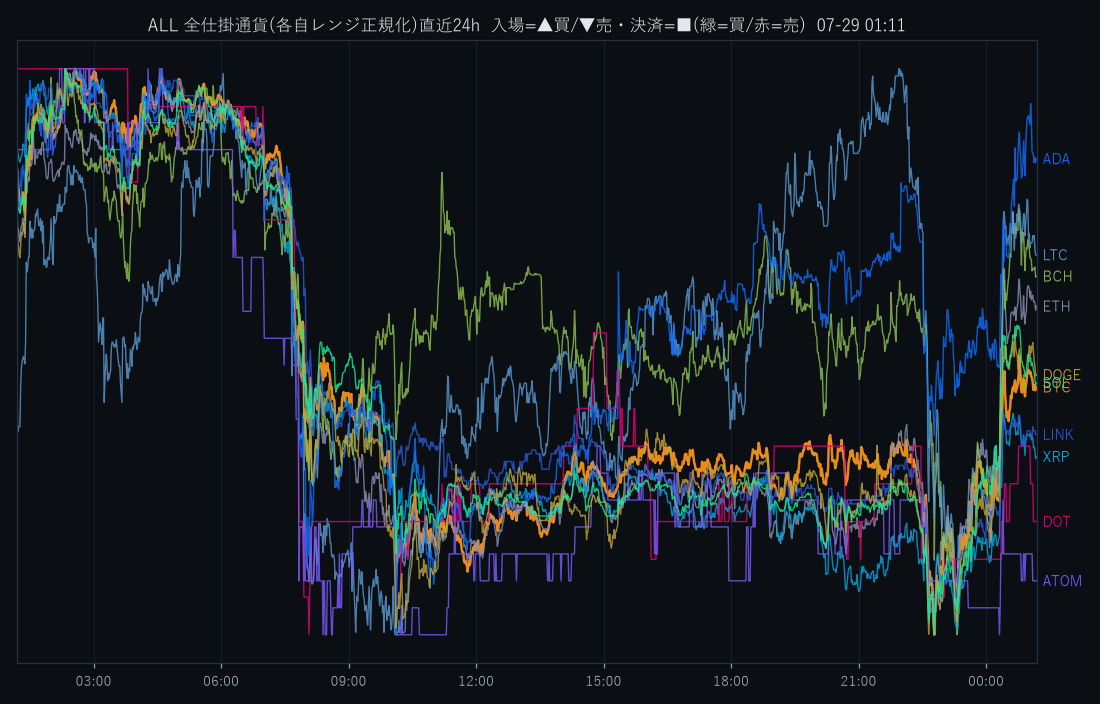
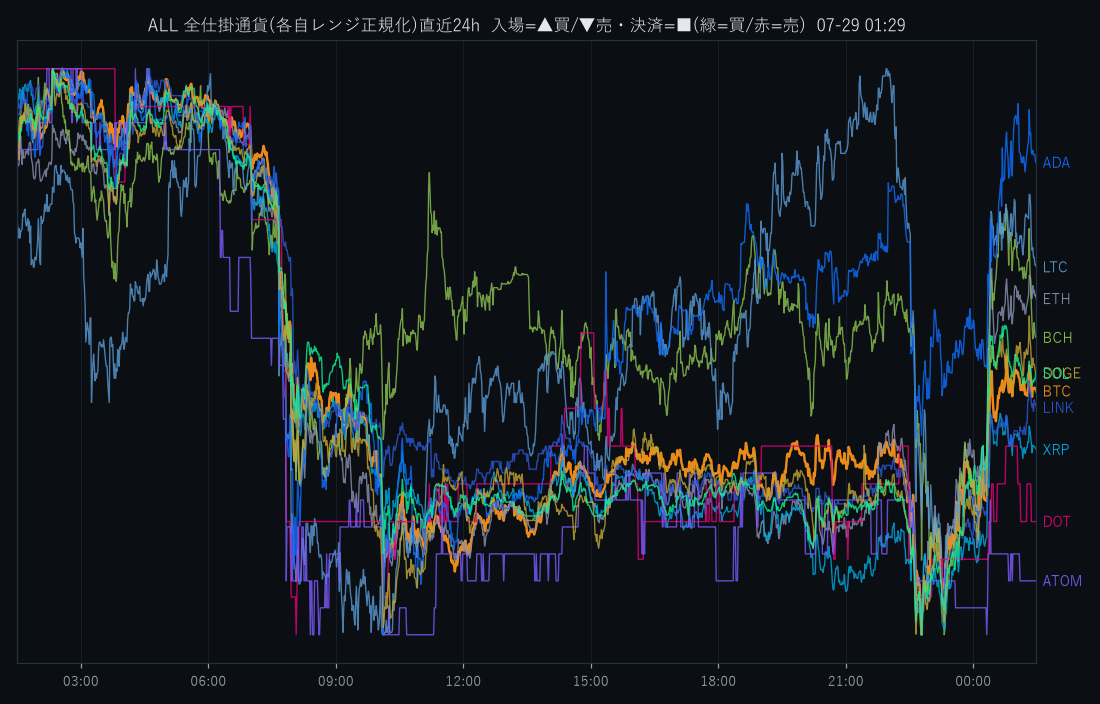
Coin100S 運用状況更新 07-29 01:29

diff --git a/coin100s-795hc4jfv8/index.html b/coin100s-795hc4jfv8/index.html
@@ -25,5 +25,5 @@ a{color:#60a5fa;text-decoration:none} a:hover{text-decoration:underline}
 <p><a href="status.html"><b>▶ 運用状況の詳細(チャート・本日の取引・レジーム)</b></a></p>
 <h2>日報一覧</h2>
 <table><tr><th>取引日</th><th>実現損益</th><th>総括</th></tr><tr><td><a href='reports/20260727_Coin100S日報.html'>2026-07-27</a></td><td class="pos">+0円</td><td class='meta'>実取引はノートレード（新規・決済なし）。警告/孤児/エラーなし＝健全。</td></tr><tr><td><a href='reports/20260726_Coin100S日報.html'>2026-07-26</a></td><td class="pos">+0円</td><td class='meta'>実取引はノートレード（新規・決済なし）。警告/孤児/エラーなし＝健全。</td></tr><tr><td><a href='reports/20260725_Coin100S日報.html'>2026-07-25</a></td><td class="pos">+0円</td><td class='meta'>実取引: 新規0件/決済17件、実現損益 +0円。警告/孤児/エラーなし＝健全。</td></tr><tr><td><a href='reports/20260724_Coin100S日報.html'>2026-07-24</a></td><td class="pos">+0円</td><td class='meta'>実取引: 新規6件/決済17件、実現損益 +0円。シグナル却下3件（最多: BW10M3_5M／トレンド方向ゲート(N分傾き下と不一致=逆張り方向のfade禁止)）。⚠警告/エラー 12件（要確認）。</td></tr><tr><td><a href='reports/20260723_Coin100S日報.html'>2026-07-23</a></td><td class="pos">+0円</td><td class='meta'>実取引: 新規8件/決済3件、実現損益 +0円。警告/孤児/エラーなし＝健全。</td></tr><tr><td><a href='reports/20260722_Coin100S日報.html'>2026-07-22</a></td><td class="pos">+0円</td><td class='meta'>実取引: 新規10件/決済5件、実現損益 +0円。シグナル却下1件（最多: BW10M3_5M／トレンド方向ゲート(N分傾き下と不一致=逆張り方向のfade禁止)）。⚠警告/エラー 9件（要確認）。</td></tr><tr><td><a href='reports/20260721_Coin100S日報.html'>2026-07-21</a></td><td class="pos">+0円</td><td class='meta'>実取引: 新規4件/決済13件、実現損益 +0円。⚠警告/エラー 13件（要確認）。</td></tr><tr><td><a href='reports/20260720_Coin100S日報.html'>2026-07-20</a></td><td class="pos">+0円</td><td class='meta'>実取引: 新規8件/決済21件、実現損益 +0円。シグナル却下8件（最多: BW10M3_5M／トレンド方向ゲート(N分傾き上と不一致=逆張り方向のfade禁止)）。⚠警告/エラー 13件（要確認）。</td></tr><tr><td><a href='reports/20260719_Coin100S日報.html'>2026-07-19</a></td><td class="pos">+0円</td><td class='meta'>実取引: 新規10件/決済7件、実現損益 +0円。⚠警告/エラー 3件（要確認）。</td></tr><tr><td><a href='reports/20260718_Coin100S日報.html'>2026-07-18</a></td><td class="pos">+0円</td><td class='meta'>実取引: 新規9件/決済8件、実現損益 +0円。警告/孤児/エラーなし＝健全。</td></tr><tr><td><a href='reports/20260717_Coin100S日報.html'>2026-07-17</a></td><td class="pos">+0円</td><td class='meta'>実取引: 新規3件/決済2件、実現損益 +0円。シグナル却下1件（最多: BW10M3_5M／トレンド方向ゲート(N分傾き下と不一致=逆張り方向のfade禁止)）。⚠警告/エラー 2件（要確認）。</td></tr><tr><td><a href='reports/20260716_Coin100S日報.html'>2026-07-16</a></td><td class="pos">+0円</td><td class='meta'>実取引: 新規0件/決済5件、実現損益 +0円。⚠警告/エラー 7件（要確認）。</td></tr><tr><td><a href='reports/20260715_Coin100S日報.html'>2026-07-15</a></td><td class="pos">+0円</td><td class='meta'>実取引: 新規6件/決済5件、実現損益 +0円。シグナル却下6件（最多: BW10M3_5M／トレンド方向ゲート(N分傾き上と不一致=逆張り方向のfade禁止)）。⚠警告/エラー 7件（要確認）。</td></tr><tr><td><a href='reports/20260714_Coin100S日報.html'>2026-07-14</a></td><td class="pos">+0円</td><td class='meta'>実取引: 新規6件/決済18件、実現損益 +0円。シグナル却下5件（最多: BW10M3_5M／トレンド方向ゲート(N分傾き上と不一致=逆張り方向のfade禁止)）。⚠警告/エラー 9件（要確認）。</td></tr><tr><td><a href='reports/20260713_Coin100S日報.html'>2026-07-13</a></td><td class="pos">+0円</td><td class='meta'>実取引: 新規5件/決済8件、実現損益 +0円。シグナル却下1件（最多: BW10M3_5M／トレンド方向ゲート(N分傾き上と不一致=逆張り方向のfade禁止)）。警告/孤児/エラーなし＝健全。</td></tr><tr><td><a href='reports/20260712_Coin100S日報.html'>2026-07-12</a></td><td class="pos">+0円</td><td class='meta'>実取引: 新規14件/決済6件、実現損益 +0円。シグナル却下5件（最多: BW10M3_5M／トレンド方向ゲート(N分傾き下と不一致=逆張り方向のfade禁止)）。⚠警告/エラー 2件（要確認）。</td></tr><tr><td><a href='reports/20260711_Coin100S日報.html'>2026-07-11</a></td><td class="pos">+0円</td><td class='meta'>実取引: 新規7件/決済6件、実現損益 +0円。⚠警告/エラー 52件（要確認）。</td></tr><tr><td><a href='reports/20260710_Coin100S日報.html'>2026-07-10</a></td><td class="pos">+0円</td><td class='meta'>実取引: 新規7件/決済6件、実現損益 +0円。シグナル却下6件（最多: BW10M3_5M／トレンド方向ゲート(N分傾き上と不一致=逆張り方向のfade禁止)）。警告/孤児/エラーなし＝健全。</td></tr><tr><td><a href='reports/20260709_Coin100S日報.html'>2026-07-09</a></td><td class="pos">+0円</td><td class='meta'>実取引: 新規8件/決済3件、実現損益 +0円。シグナル却下5件（最多: SD120M_5M／トレンド方向ゲート(N分傾き上と不一致=逆張り方向のfade禁止)）。警告/孤児/エラーなし＝健全。</td></tr><tr><td><a href='reports/20260708_Coin100S日報.html'>2026-07-08</a></td><td class="pos">+0円</td><td class='meta'>実取引: 新規2件/決済4件、実現損益 +0円。シグナル却下4件（最多: SD120M_5M／トレンド方向ゲート(N分傾き下と不一致=逆張り方向のfade禁止)）。警告/孤児/エラーなし＝健全。</td></tr><tr><td><a href='reports/20260707_Coin100S日報.html'>2026-07-07</a></td><td class="pos">+0円</td><td class='meta'>実取引: 新規8件/決済6件、実現損益 +0円。シグナル却下4件（最多: SD120M_5M／トレンド方向ゲート(N分傾き上と不一致=逆張り方向のfade禁止)）。⚠警告/エラー 258件（要確認）。</td></tr><tr><td><a href='reports/20260706_Coin100S日報.html'>2026-07-06</a></td><td class="pos">+0円</td><td class='meta'>実取引: 新規9件/決済6件、実現損益 +0円。シグナル却下9件（最多: SD120M_5M／トレンド方向ゲート(N分傾き上と不一致=逆張り方向のfade禁止)）。⚠警告/エラー 150件（要確認）。</td></tr><tr><td><a href='reports/20260705_Coin100S日報.html'>2026-07-05</a></td><td class="pos">+0円</td><td class='meta'>実取引: 新規8件/決済3件、実現損益 +0円。⚠警告/エラー 2件（要確認）。</td></tr><tr><td><a href='reports/20260704_Coin100S日報.html'>2026-07-04</a></td><td class="pos">+0円</td><td class='meta'>実取引: 新規1件/決済2件、実現損益 +0円。⚠警告/エラー 2件（要確認）。</td></tr><tr><td><a href='reports/20260703_Coin100S日報.html'>2026-07-03</a></td><td class="pos">+0円</td><td class='meta'>実取引: 新規5件/決済4件、実現損益 +0円。⚠警告/エラー 15件（要確認）。</td></tr><tr><td><a href='reports/20260702_Coin100S日報.html'>2026-07-02</a></td><td class="pos">+0円</td><td class='meta'>実取引: 新規7件/決済5件、実現損益 +0円。シグナル却下17件（最多: SD120M_5M／トレンド方向ゲート(N分傾き上と不一致=逆張り方向のfade禁止)）。⚠警告/エラー 26件（要確認）。</td></tr><tr><td><a href='reports/20260701_Coin100S日報.html'>2026-07-01</a></td><td class="pos">+0円</td><td class='meta'>実取引: 新規14件/決済8件、実現損益 +0円。シグナル却下14件（最多: SD120M_5M／ボラ軸ゲート(SDN%&amp;gt;N%=高ボラ/荒れレンジ)）。⚠警告/エラー 2件（要確認）。</td></tr><tr><td><a href='reports/20260630_Coin100S日報.html'>2026-06-30</a></td><td class="pos">+0円</td><td class='meta'>実取引: 新規0件/決済1件、実現損益 +0円。シグナル却下29件（最多: 微5M／当日枠N）。警告/孤児/エラーなし＝健全。</td></tr></table>
-<hr><p class="meta">更新: 2026-07-29 01:23:05 / 自動生成: tools/web_publish.py(§580)</p>
+<hr><p class="meta">更新: 2026-07-29 01:29:14 / 自動生成: tools/web_publish.py(§580)</p>
 </body></html>

diff --git a/coin100s-795hc4jfv8/status.html b/coin100s-795hc4jfv8/status.html
@@ -14,7 +14,7 @@ a{color:#60a5fa;text-decoration:none} a:hover{text-decoration:underline}
 .meta{color:#94a3b8;font-size:13px}</style>
 <script>setTimeout(function(){location.replace(location.pathname+"?t="+Date.now());},300000);</script></head><body>
 <h1>Coin100S 運用状況</h1>
-<p class="meta">スナップショット: 2026-07-25 08:26:13 / ページ生成: 2026-07-29 01:23:05(自動リロード・最新化) / <a href="index.html">目次へ</a></p>
+<p class="meta">スナップショット: 2026-07-25 08:26:13 / ページ生成: 2026-07-29 01:29:14(自動リロード・最新化) / <a href="index.html">目次へ</a></p>
 <div class="cards">
 <div class="card">建玉数<div class="v">0</div></div>
 <div class="card">本日損益<div class="v neg">-3,477円</div></div>
@@ -23,13 +23,13 @@ a{color:#60a5fa;text-decoration:none} a:hover{text-decoration:underline}
 <h2>資産推移(直近30日)</h2>
 <p class='meta'>(資産推移PNG未生成=アプリ稼働待ち)</p>
 <h2>取引チャート(直近24h)</h2>
-<img src="status_chart.png?t=0123" alt="chart">
+<img src="status_chart.png?t=0129" alt="chart">
 <h2>建玉一覧</h2>
 <table><tr><th>銘柄</th><th>側</th><th>数量</th><th>建値</th><th>含損益</th><th>レッグ</th></tr><tr><td colspan=6>建玉なし(flat)</td></tr></table>
 <h2>実現決済履歴(直近15件・OrderId単位)</h2>
 <table><tr><th>決済時刻</th><th>レッグ</th><th>銘柄</th><th>実現損益</th></tr><tr><td>07-25 06:08</td><td>RELVALP_SELL</td><td>ETH</td><td class="pos">+382円</td></tr><tr><td>07-25 06:08</td><td>RELVALP_SELL</td><td>ETH</td><td class="pos">+72円</td></tr><tr><td>07-25 06:08</td><td>RELVALP_SELL</td><td>LINK</td><td class="pos">+342円</td></tr><tr><td>07-25 06:08</td><td>RELVALP_SELL</td><td>ETH</td><td class="pos">+72円</td></tr><tr><td>07-25 06:08</td><td>RELVALP_SELL</td><td>LINK</td><td class="pos">+54円</td></tr><tr><td>07-25 06:08</td><td>RELVALP_SL700</td><td>LINK</td><td class="pos">+228円</td></tr><tr><td>07-25 06:08</td><td>RELVALP_SELL</td><td>ETH</td><td class="pos">+290円</td></tr><tr><td>07-25 06:08</td><td>RELVALP_SL700</td><td>ETH</td><td class="pos">+190円</td></tr><tr><td>07-25 06:08</td><td>RELVALP_SELL</td><td>LINK</td><td class="pos">+189円</td></tr><tr><td>07-25 06:08</td><td>RELVALP_SL700</td><td>LINK</td><td class="pos">+162円</td></tr><tr><td>07-25 06:01</td><td>TENKI5D_REV_BTC</td><td>BTC</td><td class="neg">-921円</td></tr><tr><td>07-25 06:01</td><td>TENKI5D_REV_DOGE</td><td>DOGE</td><td class="neg">-611円</td></tr><tr><td>07-25 06:01</td><td>TENKI5D_REV_BTC</td><td>BTC</td><td class="neg">-691円</td></tr><tr><td>07-25 06:01</td><td>TENKI5D_REV_SOL</td><td>SOL</td><td class="neg">-1,376円</td></tr><tr><td>07-25 06:01</td><td>TENKI5D_REV_DOGE</td><td>DOGE</td><td class="neg">-1円</td></tr></table>
 <!-- §799c 「本取引日の実取引(6:00起点)」テーブルは公開ページから削除(ユーザー指示2026-07-15・数量/指値まで晒す情報漏れ)。建玉/実現損益は許可・実発注の生取引明細は非公開 -->
 <h2>現在レジーム(3軸・§570c)</h2>
-<ul><li>アルト対BTC 5日: <b>-11bps</b>(アルト劣後=RELVAL順風)</li><li>BTC ER240m: <b>0.040</b>(閾値0.25→レンジ(fade順風/BWTRD逆風))</li><li>BTC実現ボラ240m: <b>6.82</b> bps/分</li></ul>
+<ul><li>アルト対BTC 5日: <b>-11bps</b>(アルト劣後=RELVAL順風)</li><li>BTC ER240m: <b>0.043</b>(閾値0.25→レンジ(fade順風/BWTRD逆風))</li><li>BTC実現ボラ240m: <b>6.80</b> bps/分</li></ul>
 <hr><p class="meta">自動生成: tools/web_publish.py(§580・読み取り専用)。売買判断はアプリ本体。</p>
 </body></html>
